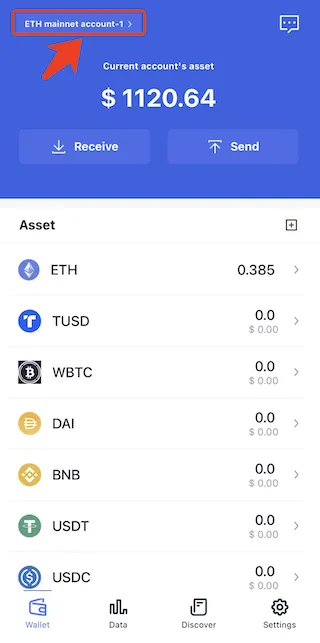
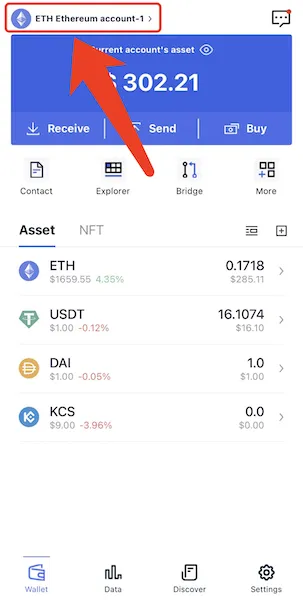
add aptos

diff --git a/docs/aptos/index.md b/docs/aptos/index.md
@@ -1,0 +1,41 @@
+---
+title: Aptos Wallet | APT Wallet
+sidebar_label: Aptos
+keywords:
+  - Aptos wallet
+  - aptos testnet
+  - aptos钱包
+  - aptos 钱包
+  - apt wallet
+  - apt钱包
+---
+
+# Aptos
+
+```mdx-code-block
+<img src={require('@site/docs/static/img/aptos.webp').default} width={"80px"} height={"80px"} alt={"Aptos"} />
+<span> </span>
+<img src={require('@site/docs/static/img/foxwallet.webp').default} width={"80px"} height={"80px"} alt={"FoxWallet"} />
+```
+
+**FoxWallet is the best Aptos wallet, the best APT wallet.**
+
+## Usage
+
+* Open [FoxWallet](https://foxwallet.com/)  
+  ![](../img/wallet-eth.webp)
+
+* Switch to Aptos and Select one account  
+  ![](../img/switch-wallet.webp)![](../img/switch-aptos.webp)
+
+* View and transfer your APT  
+  ![](../img/wallet-aptos.webp)  
+
+## Aptos Advance
+
+```mdx-code-block
+import DocCardList from '@theme/DocCardList';
+import {useCurrentSidebarCategory} from '@docusaurus/theme-common';
+
+<DocCardList items={useCurrentSidebarCategory().items}/>
+```

diff --git a/docs/index.md b/docs/index.md
@@ -20,6 +20,10 @@ The FoxWallet development team has rich experience in blockchain and network sec
 * [zkSync 1.0 Tutorial](./dapp/zksync-v1.md)
 * [zkSync 2.0 Testnet Tutorial](./dapp/zksync-v2-testnet.md)
 
+## Aptos
+* [Aptos Usage](./aptos/index.md)
+* [Faucet](./aptos/faucet.md)
+
 ## Ethereum Advance
 * [Add Custom RPC](./ethereum-advance/add-custom-rpc.md)
 * [BNB Chain (BSC)](./ethereum-advance/bsc.md)

diff --git a/docs/aptos/faucet.md b/docs/aptos/faucet.md
@@ -1,0 +1,15 @@
+---
+sidebar_position: 3
+title: Aptos Wallet | APT Wallet
+sidebar_label: Test Coin Faucet
+keywords:
+  - Aptos faucet
+  - how to get aptos test coin
+  - aptos测试币
+---
+
+# Aptos Faucet
+
+Open FoxWallet, switch to Aptos, click the "Faucet" button then you can get some testnet coins.
+
+![](../img/aptos-faucet.webp)
